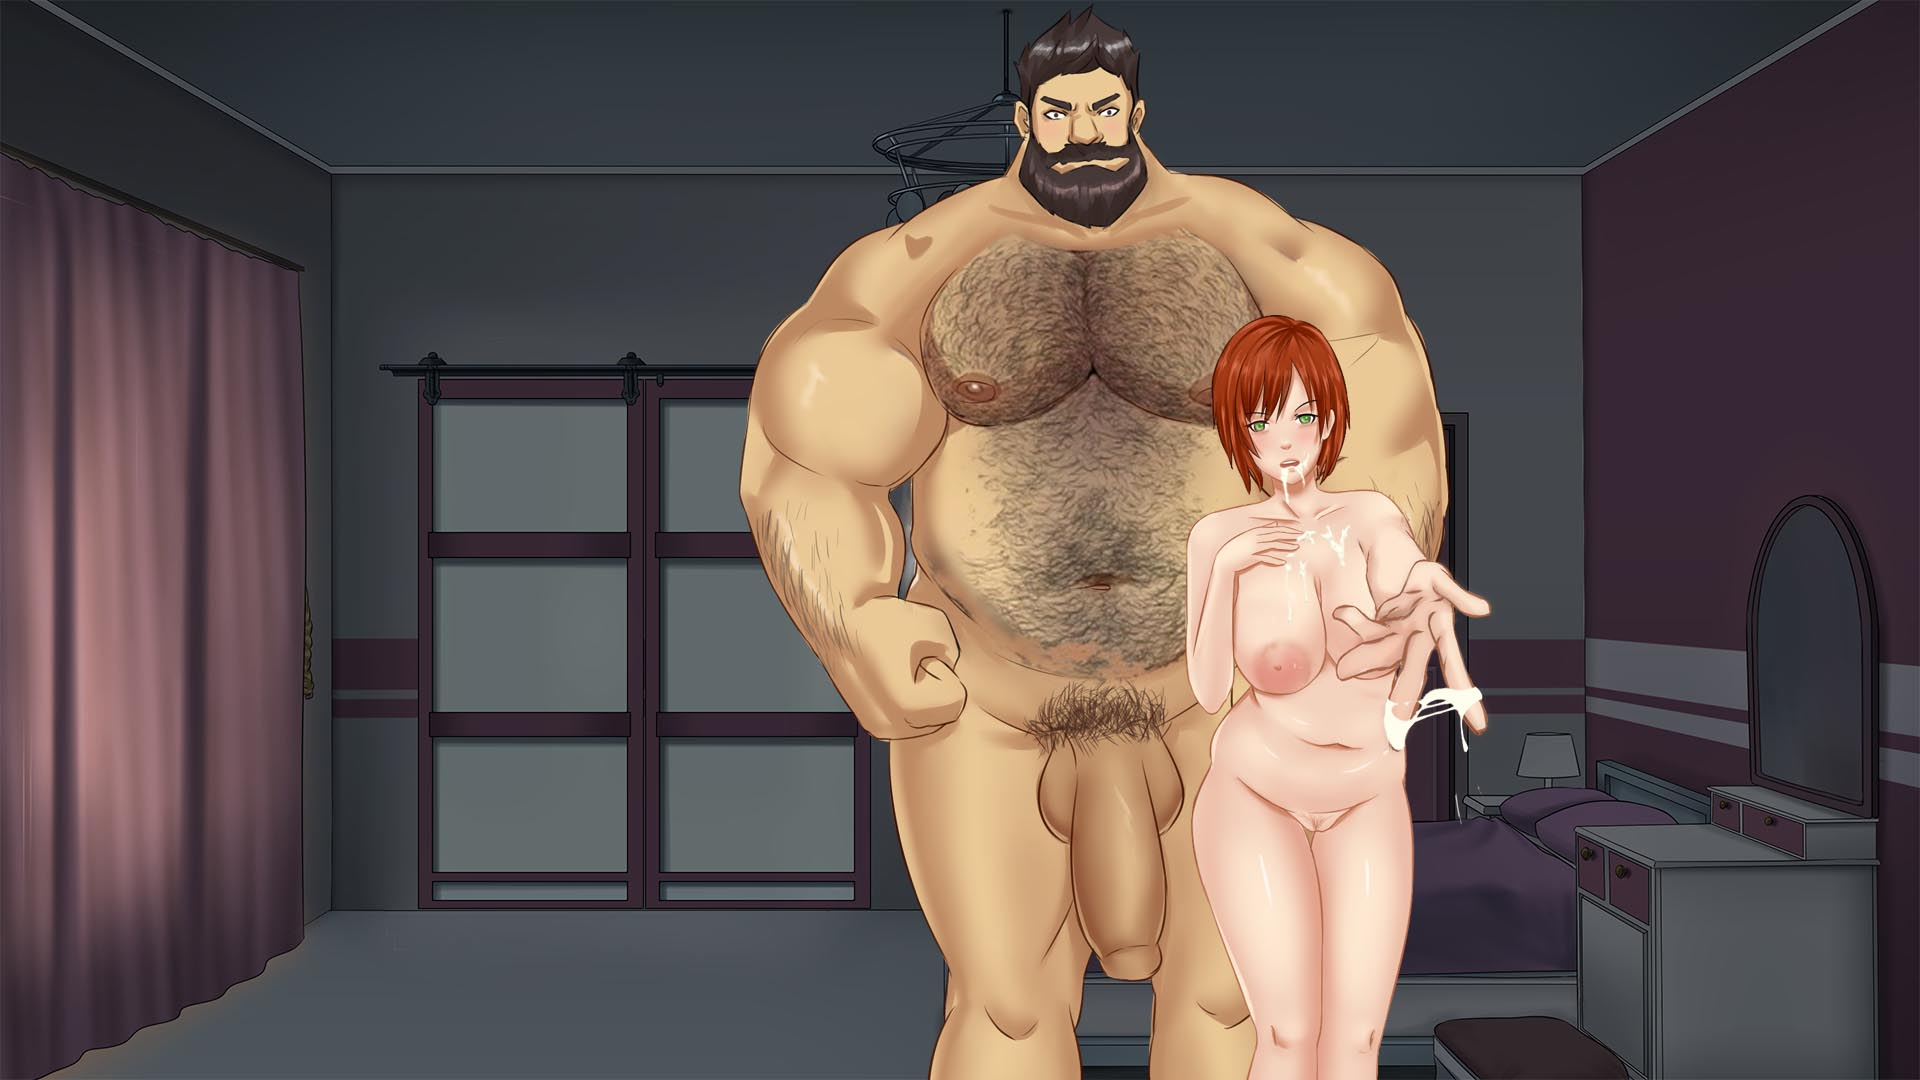
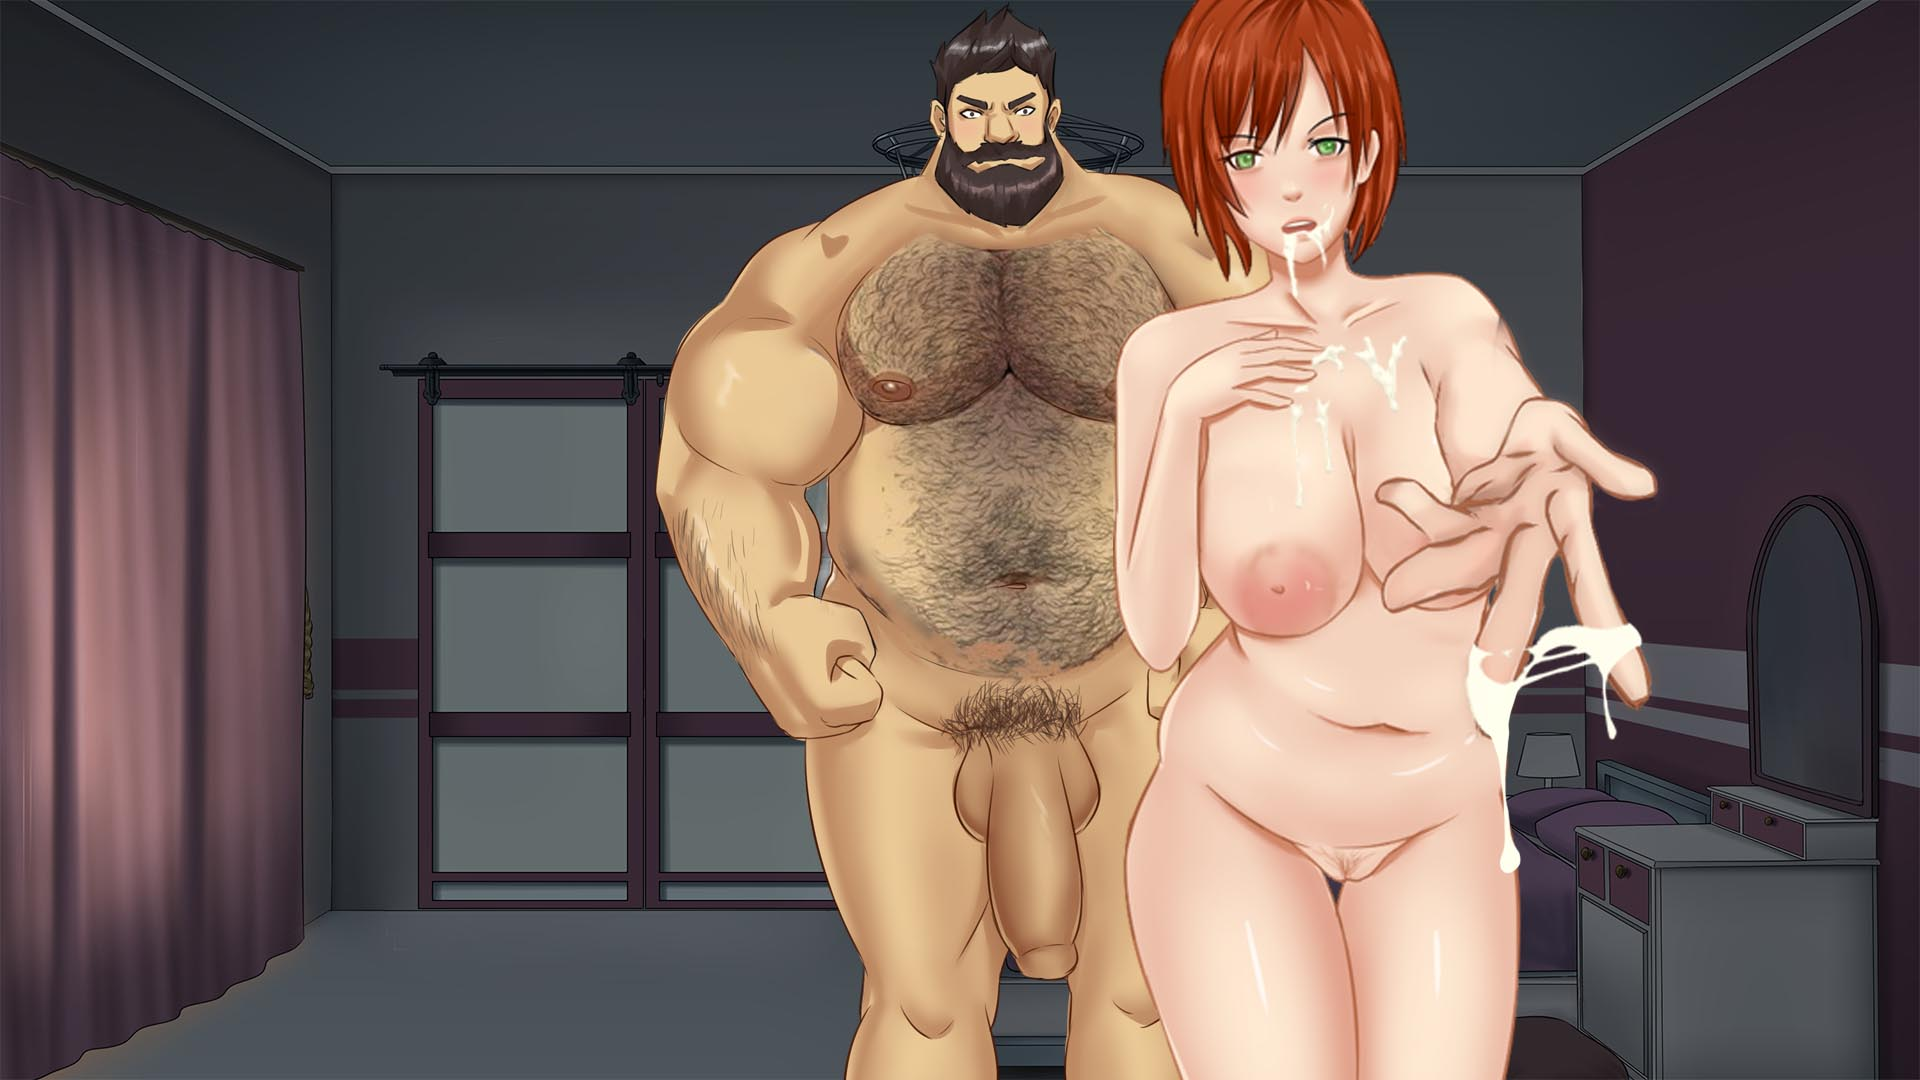
Landlord update forth

Changed region(s): [[0.3438, 0.0, 0.875, 1.0]]

diff --git a/scripts/room/room014.js b/scripts/room/room014.js
@@ -43,8 +43,21 @@ room14.main = function () {
                     }];
                     break;
                 case 3:
-                    nav.bg("14_motherRoom/couple2.jpg");
-                    chat(27, 14);
+                    if (g.get("bigguy")) {
+                        btnList = [{
+                            "type": "btn",
+                            "name": "couple",
+                            "left": 737,
+                            "top": 0,
+                            "width": 714,
+                            "height": 1080,
+                            "image": "14_motherRoom/couple.png"
+                        }];
+                    }
+                    else {
+                        nav.bg("14_motherRoom/couple3.jpg");
+                        chat(27, 14);
+                    }
                     break;
                 default:
                     btnList = [{
@@ -383,6 +396,10 @@ room14.chatcatch = function (callback) {
             g.pass = "sleepSpank";
             char.room(21);
             break;
+        case "fin0":
+            g.setflag("bigguy");
+            char.addtime(60);
+            break;
         case "fin1":
             sc.setstep("bigguy", 1);
             g.setflag("bigguy");
@@ -398,6 +415,11 @@ room14.chatcatch = function (callback) {
             g.setflag("bigguy");
             char.addtime(60);
             break;
+        case "fin4":
+            sc.setstep("bigguy", 4);
+            g.setflag("bigguy");
+            char.addtime(60);
+            break;
         case "couple3a":
             nav.bg("14_motherRoom/couple3a.jpg");
             break;
@@ -409,6 +431,16 @@ room14.chatcatch = function (callback) {
             break;
         case "couple3d":
             nav.bg("14_motherRoom/couple3d.jpg");
+            break;
+        case "couple3e":
+            nav.bg("14_motherRoom/couple3e.jpg");
+            break;
+        case "couple3f":
+            nav.bg("14_motherRoom/couple3f.jpg");
+            break;
+        case "couple3g":
+            g.mod("loadSwollowed", 1);
+            nav.bg("14_motherRoom/couple3g.jpg");
             break;
         default:
             break;
@@ -664,7 +696,7 @@ room14.chat = function(chatID){
             speaker: "landlord",
             text: "Blub...",
             button: [
-                { chatID: 30, text: "...", callback: "" }
+                { chatID: 31, text: "...", callback: "" }
             ]
         },
         {
@@ -697,8 +729,65 @@ room14.chat = function(chatID){
             speaker: "landlord",
             text: "Is that what you wanted? Did you want a taste? You're a dirty boy, did you want to clean up your " + sc.n("landlord") + " ? ",
             button: [
-                { chatID: 30, text: "Oh my god NO", callback: "" },
-                { chatID: 30, text: "Ummmm well yes", callback: "" }
+                { chatID: 35, text: "I do", callback: "couple3e" },
+                { chatID: 41, text: "Oh my god NO", callback: "" }
+                
+            ]
+        },
+        {
+            chatID: 35,
+            speaker: "landlord",
+            text: "I know what a bad boy you are, clean my hand you naughty boy.",
+            button: [
+                { chatID: 36, text: "[Suck her fingers clean]", callback: "couple3f" }
+            ]
+        },
+        {
+            chatID: 36,
+            speaker: "landlord",
+            text: "That's right suck my fingers clean.",
+            button: [
+                { chatID: 37, text: "[Keep sucking her cum covered fingers]", callback: "" }
+            ]
+        },
+        {
+            chatID: 37,
+            speaker: "bigguy",
+            text: "Hahahaha How's my cum taste little man? Now swollow it up for " + sc.n("landlord") + ".",
+            button: [
+                { chatID: 38, text: "[swollow it down]", callback: "couple3g" }
+            ]
+        },
+        {
+            chatID: 38,
+            speaker: "landlord",
+            text: "Such a dirty boy.",
+            button: [
+                { chatID: 39, text: "MMmmmmmm", callback: "couple3c" }
+            ]
+        },
+        {
+            chatID: 39,
+            speaker: "bigguy",
+            text: "You need to run along now boy, or I'm going to fill that ass up with cum too ",
+            button: [
+                { chatID: 40, text: "What", callback: "" }
+            ]
+        },
+        {
+            chatID: 40,
+            speaker: "landlord",
+            text: sc.n("bigguy") + "! I'm not done with you yet. Now run along " + sc.n("me") + ".",
+            button: [
+                { chatID: -1, text: "[Run along]", callback: "fin4" }
+            ]
+        },
+        {
+            chatID: 41,
+            speaker: "landlord",
+            text: "Ok you naughty boy, run along so I can finish up. Now go!",
+            button: [
+                { chatID: -1, text: "[Run along]", callback: "fin0" }
             ]
         },
     ];

diff --git a/scripts/room/room103.js b/scripts/room/room103.js
@@ -2,20 +2,45 @@
 var room103 = {};
 
 room103.main = function () {
-    var thisRand = Math.floor(Math.random() * 10);
-    if (thisRand === 1)
-        chat(1, 103);
-    else if (thisRand === 2) {
-        nav.bg("103_constSite/103_topless.png");
-        chat(3, 103);
-    }
-    else
-        chat(0, 103);
+    btnList = [
+        {
+            "type": "btn",
+            "name": "hole",
+            "left": 1302,
+            "top": 531,
+            "width": 135,
+            "height": 124,
+            "image": "103_constSite/hole.png",
+            "night": "103_constSite/holenight.png"
+        },
+        {
+            "type": "btn",
+            "name": "work",
+            "left": 315,
+            "top": 718,
+            "width": 513,
+            "height": 272,
+            "image": "103_constSite/work.png"
+        }
+    ];
+    $.each(btnList, function (i, v) {
+        nav.button(v, 14);
+    });
+    //var thisRand = Math.floor(Math.random() * 10);
+    //if (thisRand === 1)
+    //    chat(1, 103);
+    //else if (thisRand === 2) {
+    //    nav.bg("103_constSite/103_topless.png");
+    //    chat(3, 103);
+    //}
+    //else
+    //    chat(0, 103);
 };
 
 room103.btnclick = function (name) {
     switch (name) {
-        case "":
+        case "work":
+            chat(0, 103);
             break;
         default:
             break;

diff --git a/scripts/global.js b/scripts/global.js
@@ -302,7 +302,7 @@ g.rooms = [
     { roomID: 100, name: "Construction Entrance", image: "100_construction/100_site.jpg", nightImage: "100_construction/100_bg_night.jpg", houseID: 100, btn: "roomBtn_100.png" },
     { roomID: 101, name: "Front Office", image: "101_constFrontOffice/101_frontoffice.jpg", nightImage: "101_constFrontOffice/101_frontoffice.jpg", houseID: 100, btn: "roomBtn_101.png" },
     { roomID: 102, name: "Boss's Office", image: "102_constBoss/102_boss.png", nightImage: "102_constBoss/102_boss.png", houseID: 100, btn: "roomBtn_102.png" },
-    { roomID: 103, name: "Work", image: "103_constSite/103_sweep.png", nightImage: "103_constSite/103_sweep.png", houseID: 100, btn: "roomBtn_103.png" },
+    { roomID: 103, name: "Work", image: "103_constSite/103_sweep.jpg", nightImage: "103_constSite/103_sweepnight.jpg", houseID: 100, btn: "roomBtn_103.png" },
 
     { roomID: 200, name: "Missy PI Entrace", image: "200_frontOffice/200_frontOffice.jpg", nightImage: "200_frontOffice/200_frontOffice.jpg", houseID: 200, btn: "roomBtn_200.png" },
     { roomID: 201, name: "Bathroom", image: "201_bathroom/201_bathroom.jpg", nightImage: "201_bathroom/201_bathroom.jpg", houseID: 200, btn: "roomBtn_201.png" },
